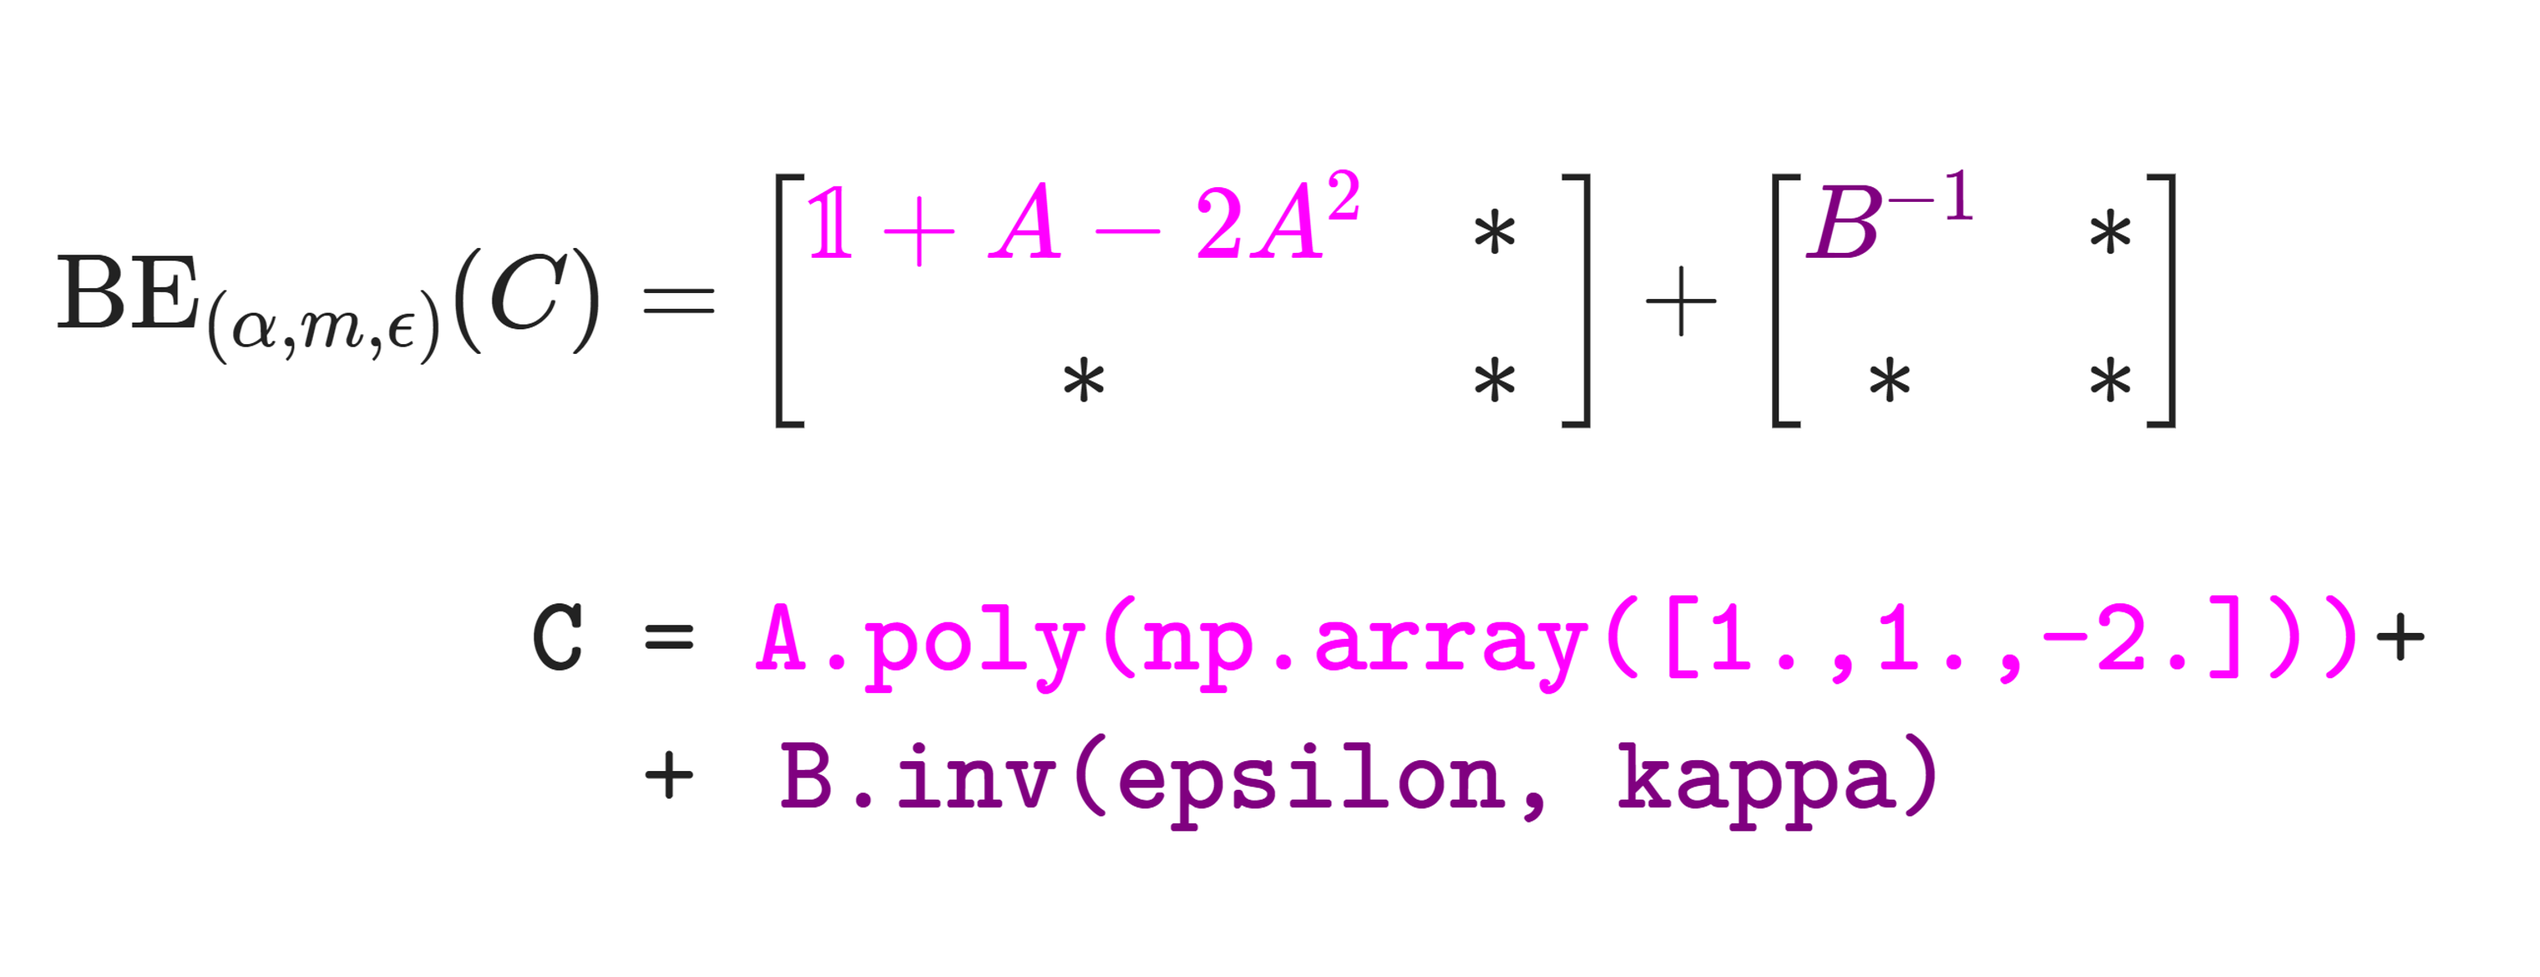
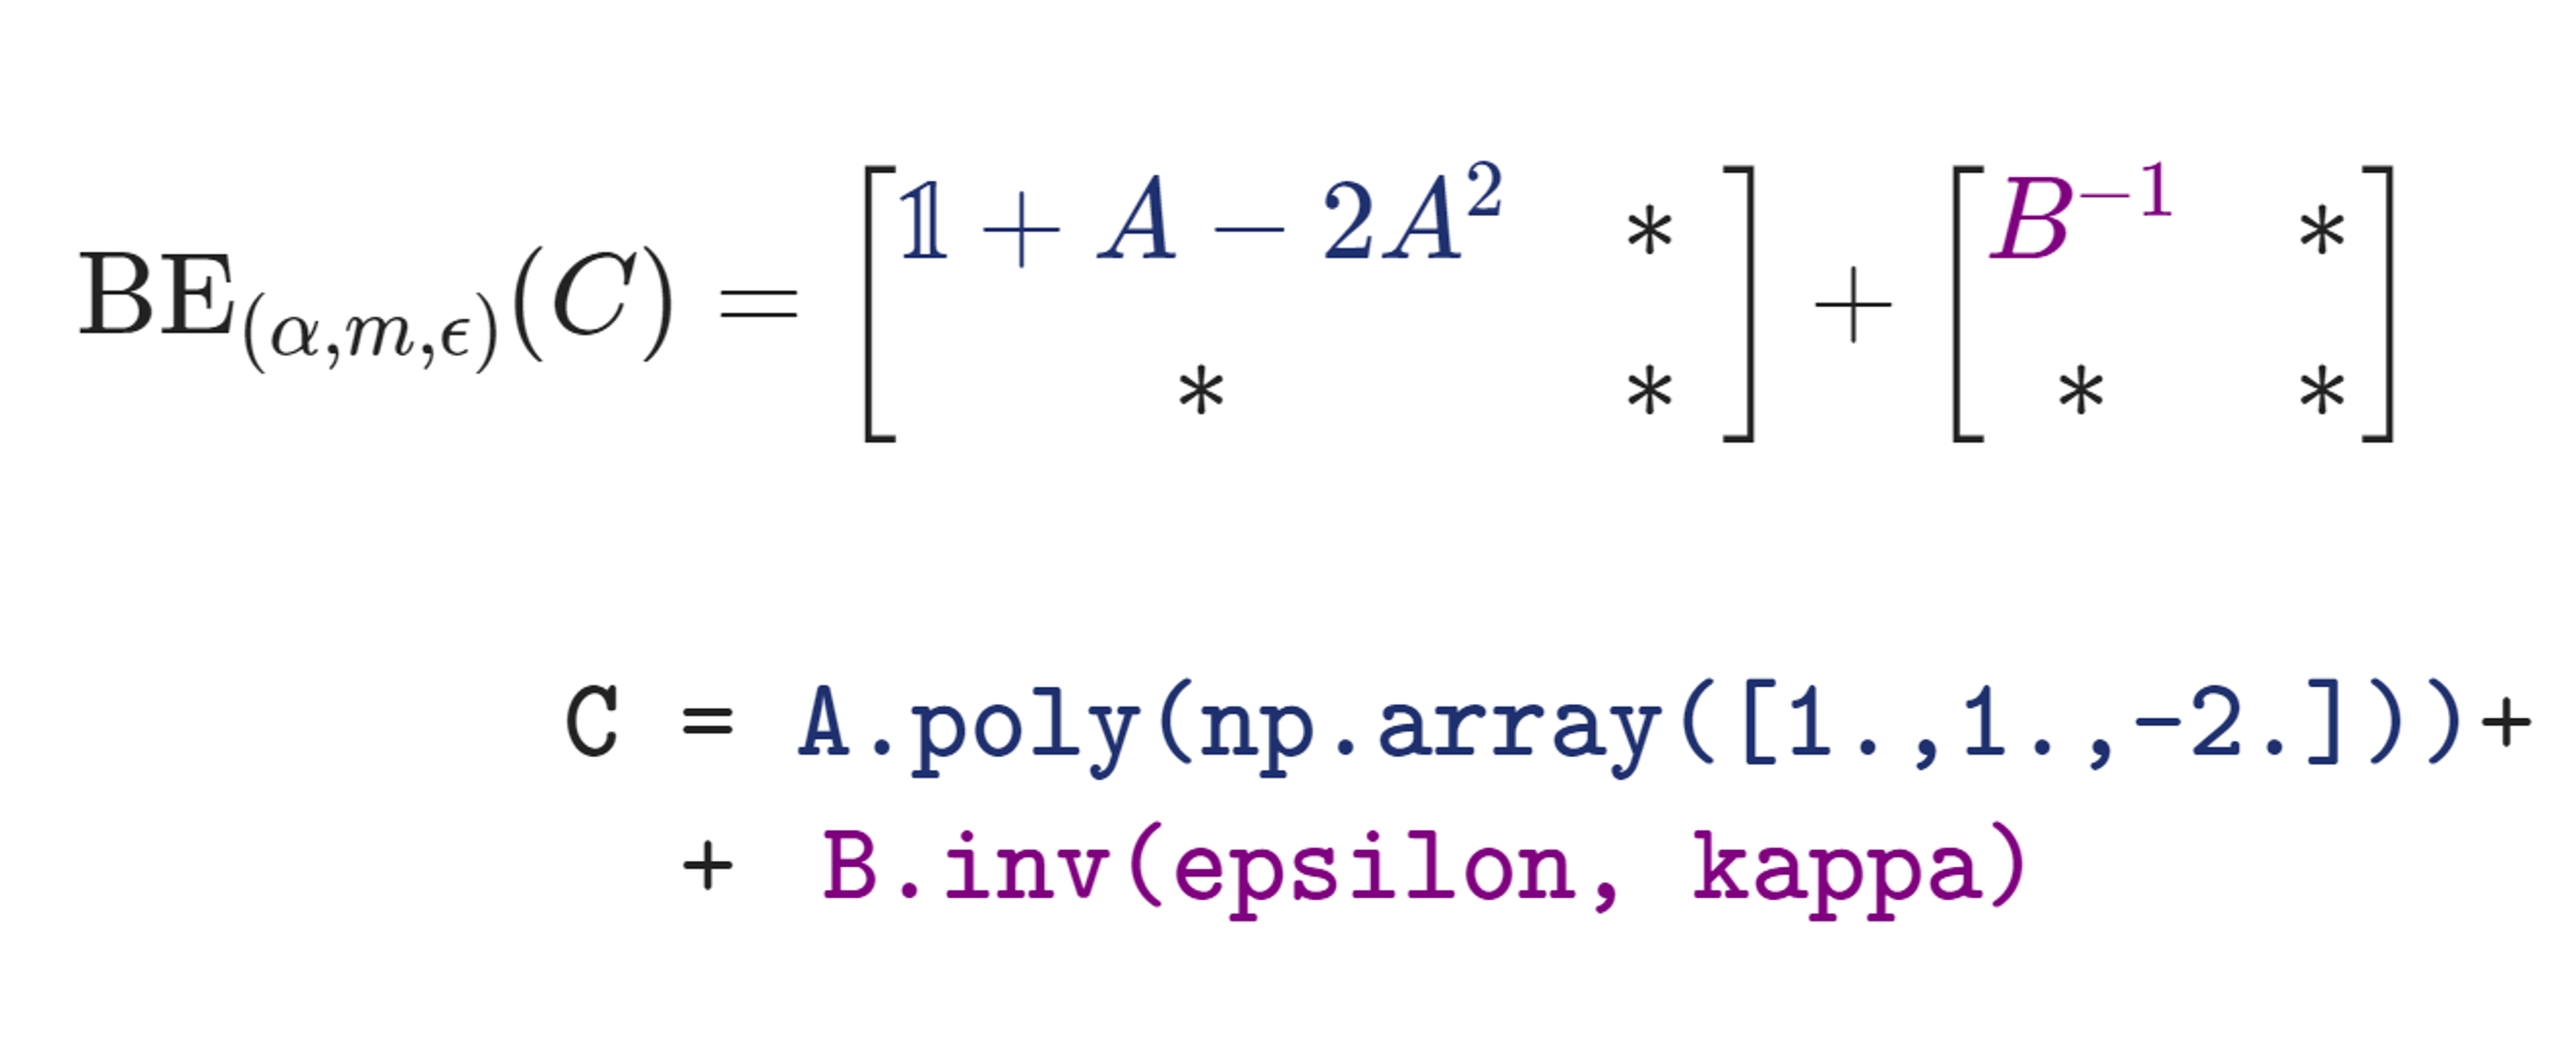
Used the corect color code for the qrisp blue in the BlockEncoding tutorial thumbnail

diff --git a/documentation/source/general/tutorial/index.rst b/documentation/source/general/tutorial/index.rst
@@ -85,7 +85,7 @@ Welcome to the tutorial of Qrisp! This page will help you get started by providi
 
         .. image:: ../../_static/BE_thumbnail.png
             :align: center
-            :target: ./BE_construct.html
+            :target: ./BE_tutorial/BE_construct.html
 
         .. raw:: html
             
